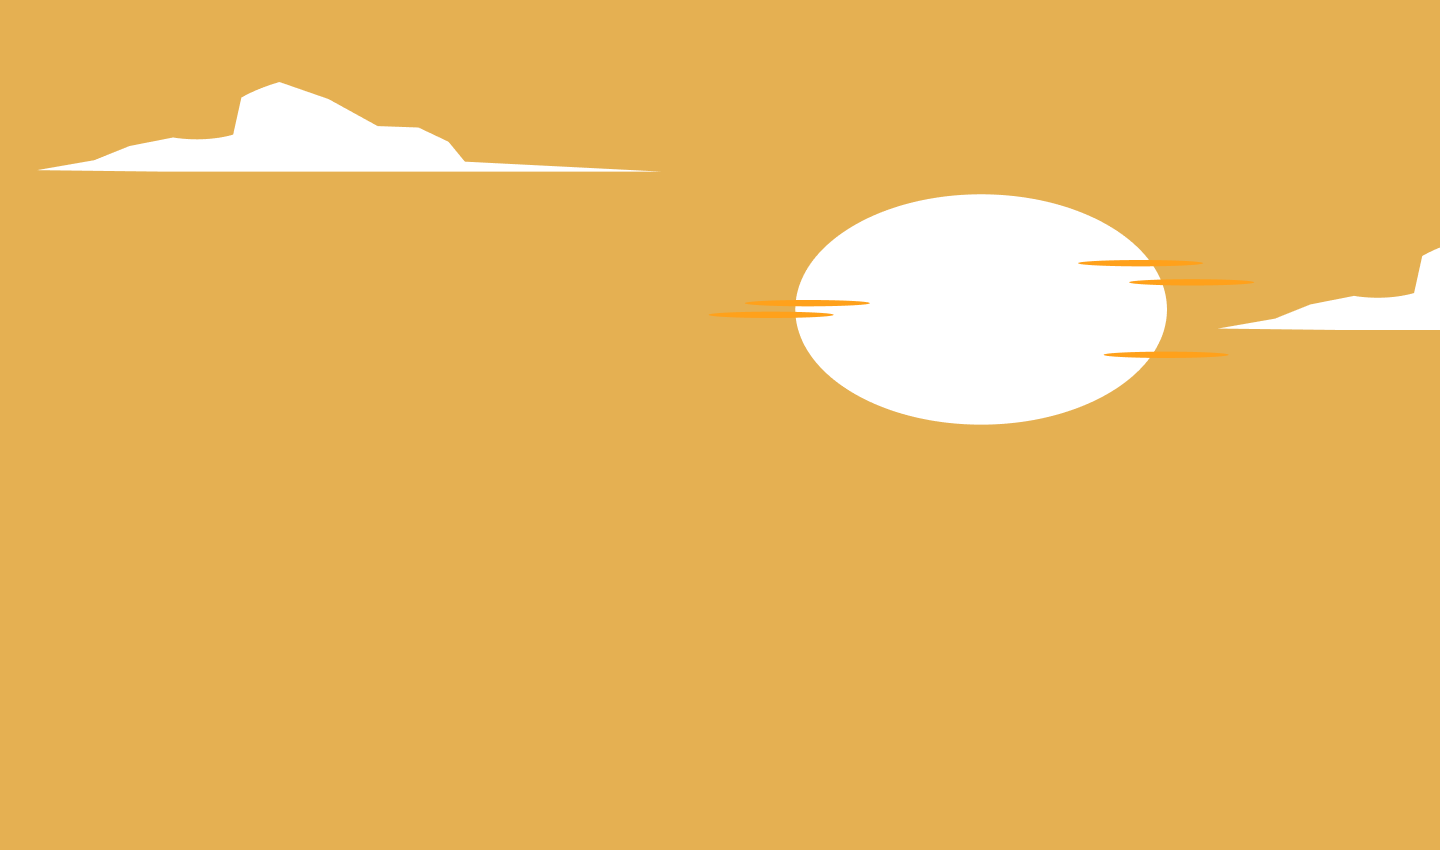
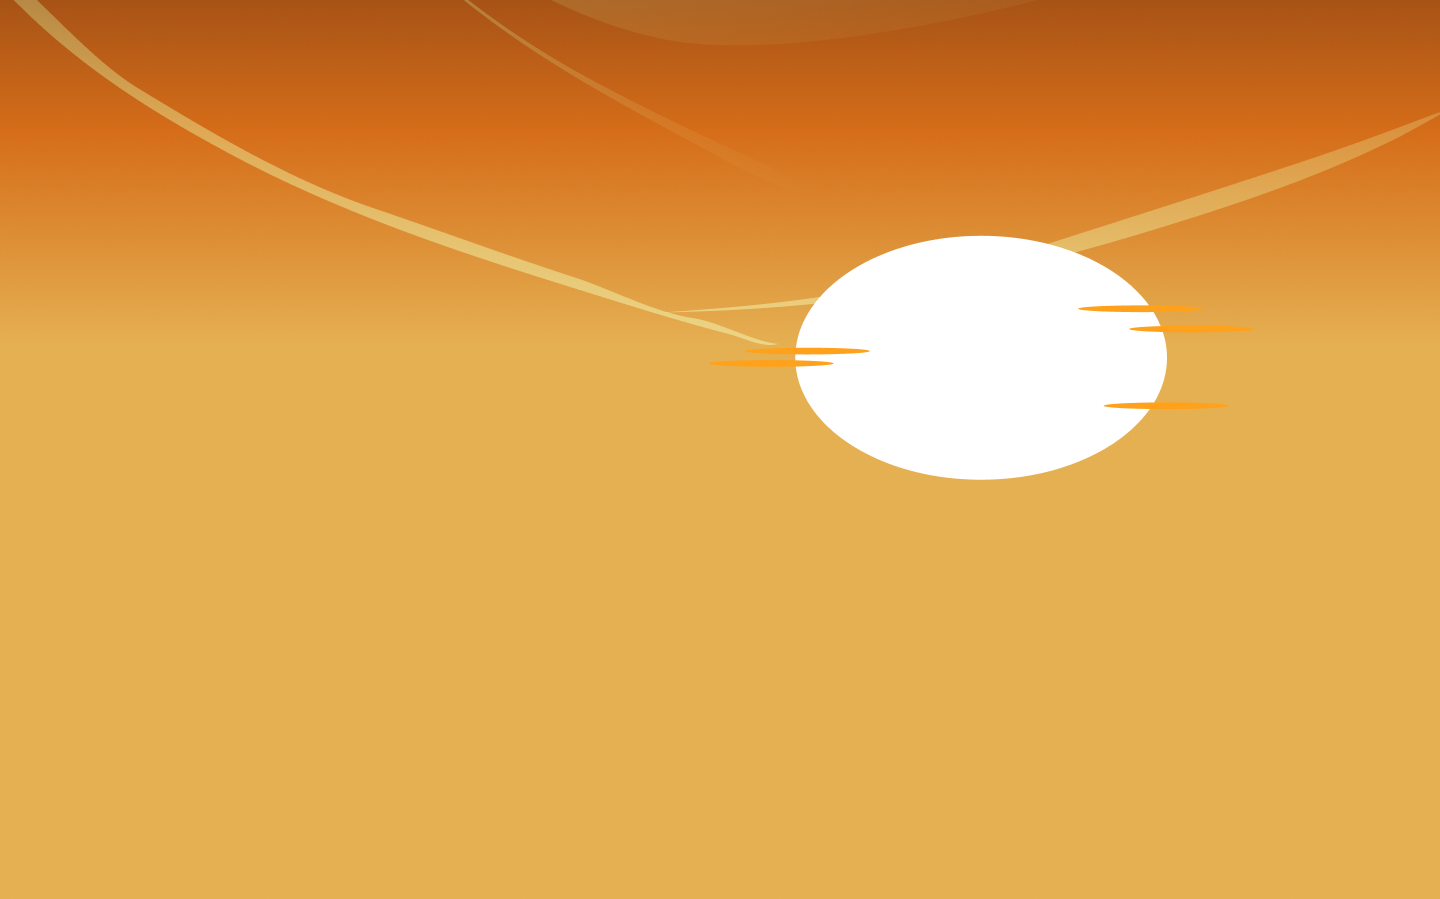
WWO Hover, Rentals responsiveness, new hero and footer bg

diff --git a/components/index/Footer/Footer.jsx b/components/index/Footer/Footer.jsx
@@ -3,19 +3,20 @@ import { BsFillArrowRightCircleFill } from "react-icons/bs";
 
 export function FooterLandingPage() {
   return (
-    <div className="pb-16" style={{ backgroundColor: "#E5B052" }}>
-      <div
-        className="w-full min-h-[25vh] md:min-h-[50vh] lg:min-h-[70vh]"
-        style={{
-          backgroundImage: `url('/assets/bottom bg.png')`,
-          backgroundSize: "cover",
-        }}
-      />
+    <div
+      className="w-full h-[140vh] md:h-[145vh]"
+      style={{
+        backgroundImage: `url('/assets/bottom bg.png')`,
+        backgroundSize: "cover",
+      }}
+    >
+      {/* FILLER DIV */}
+      <div className="h-[65vh] md:h-[75vh]"></div>
       <div className="flex flex-row items-center justify-center mx-10 md:mx-20 flex-wrap">
-        <h1 className="basis-full text-center text-2xl sm:text-3xl md:text-5xl text-color-secondary font-extrabold drop-shadow-lg">
+        <h1 className="basis-full text-center text-2xl md:text-3xl lg:text-5xl text-color-secondary font-extrabold drop-shadow-lg">
           CONNECT WITH US
         </h1>
-        <p className=" text-white text-sm sm:text-md md:text-xl text-center pt-5 lg:w-1/2">
+        <p className=" text-white text-sm sm:text-base lg:text-xl text-center pt-5 lg:w-1/2">
           Join the revolution to make the gaming NFT lending and borrowing
           markets open for all. Subscribe to our waitlist to have early access
           to our cross chain borrowing and lending protocol.
@@ -65,7 +66,7 @@ export function FooterLandingPage() {
           </button>
         </div>
       </div>
-      <footer className="bg-transparent pt-16 px-0 sm:px-20">
+      <footer className="bg-transparent pt-10 lg:pt-16 px-0 sm:px-20">
         <div className="flex flex-wrap justify-center md:justify-between px-5">
           <a
             href="#/"
@@ -80,11 +81,11 @@ export function FooterLandingPage() {
               Kingdomly
             </span>
           </a>
-          <ul className="flex flex-wrap items-center text-lg text-white">
+          <ul className="flex flex-wrap items-center text-white">
             <li>
               <a
                 href="#"
-                className="mr-3 text-sm md:text-lg hover:underline md:mr-6"
+                className="mr-3 text-sm sm:text-base lg:text-lg hover:underline md:mr-6"
               >
                 About
               </a>
@@ -92,20 +93,20 @@ export function FooterLandingPage() {
             <li>
               <a
                 href="#"
-                className="mr-3 text-sm md:text-lg hover:underline md:mr-6 "
+                className="mr-3 text-sm sm:text-base lg:text-lg hover:underline md:mr-6 "
               >
                 Terms of Service
               </a>
             </li>
             <li>
-              <a href="#" className="text-sm md:text-lg hover:underline">
+              <a href="#" className="text-sm sm:text-base lg:text-lg hover:underline">
                 Privacy Policy
               </a>
             </li>
           </ul>
         </div>
         <hr className=" border-white my-4 md:my-8 mx-4 sm:mx-0" />
-        <span className="block  text-white  text-center text-sm md:text-lg ">
+        <span className="block  text-white  text-center text-sm sm:text-base lg:text-lg ">
           © 2022{" "}
           <a href="#/" className="hover:underline ">
             Kingdomly

diff --git a/pages/index.js b/pages/index.js
@@ -33,7 +33,7 @@ export default function Home() {
 
       {/* <--LENDERS--> */}
       <div
-        className="vertical p-10 md:p-20"
+        className="vertical pt-[10vh] md:pt-[10vh] px-10 md:px-20"
         style={{ backgroundColor: "#122620" }}
       >
         <div className="flex justify-center">
@@ -41,16 +41,46 @@ export default function Home() {
             WHAT WE OFFER
           </strong>
         </div>
-        <div className="flex flex-wrap justify-center py-10">
-          <LenderGridItems index={1} content={"NFT Rentals made easy!"} />
-          <LenderGridItems index={2} content={"Complete Access"} />
-          <LenderGridItems index={3} content={"Enlist any NFT!"} />
-          <LenderGridItems index={4} content={"Open for All"} />
-          <LenderGridItems index={5} content={"No More Whitegloving!"} />
+        <div className="flex flex-wrap justify-center items-start pt-10 pb-20">
+          <LenderGridItems
+            index={1}
+            content={"Low risk, high reward"}
+            extended={
+              "With Kingdomly any player can try any game at a fraction of the cost, learning and growing in their enjoyment of such games before they decide to make a full purchase themselves."
+            }
+          />
+          <LenderGridItems
+            index={2}
+            content={"No more NFT cold starts!"}
+            extended={
+              "Most NFT launches encounter cold-starts caused by extremely low or high minting prices. Lending and renting protocols could abolish these factors."
+            }
+          />
+          <LenderGridItems
+            index={3}
+            content={"Enlist any NFT!"}
+            extended={
+              "The initial and core Kingdomly product is a protocol layer that enables peer to peer renting of ERC-721 and ERC-1155 non-fungible tokens (NFTs)."
+            }
+          />
+          <LenderGridItems
+            index={4}
+            content={"Your NFT, your rules."}
+            extended={
+              'Lending implies transferring true “usership” rights to the borrower, The NFT "Lender" is the one to set the rules on how long can someone have it for rent, and how much will it cost.: '
+            }
+          />
+          <LenderGridItems
+            index={5}
+            content={"Open for all!"}
+            extended={
+              "Anyone with NFTs, may it be 721 or 4907s, can hop in and have their assets for lease! On Kingdomly’s platform, any user can lend as many gaming/utility assets as they would like."
+            }
+          />
         </div>
       </div>
 
-      {/* <--RENTERS--> */}
+      {/* <--RENTALS--> */}
       <Renters />
 
       {/* <--Milestones--> */}

diff --git a/components/index/ParallaxHero.jsx b/components/index/ParallaxHero.jsx
@@ -8,29 +8,49 @@ export default function () {
     <>
       <ParallaxContainer scrollAxis="vertical">
         <ParallaxBanner className="vertical">
-          <ParallaxBannerLayer image="/assets/kf-50.png" speed={-22} />
-          <ParallaxBannerLayer image="/assets/kf-60.png" speed={-12} />
-          <ParallaxBannerLayer image="/assets/kf-80.png" speed={-6} />
-          <ParallaxBannerLayer image="/assets/kf-10.png" speed={-2} />
-          <ParallaxBannerLayer image="/assets/kf-100.png" speed={5} />
+          <ParallaxBannerLayer
+            className="bg-no-repeat bg-center bg-contain"
+            image="/assets/kf-50.png"
+            speed={-22}
+          />
+          <ParallaxBannerLayer
+            className="bg-no-repeat bg-center bg-contain"
+            image="/assets/kf-60.png"
+            speed={-12}
+          />
+          <ParallaxBannerLayer
+            className="bg-no-repeat bg-center bg-contain"
+            image="/assets/kf-80.png"
+            speed={-6}
+          />
+          <ParallaxBannerLayer
+            className="bg-no-repeat bg-center bg-contain"
+            image="/assets/kf-10.png"
+            speed={-2}
+          />
+          <ParallaxBannerLayer
+            className="bg-no-repeat bg-center bg-contain"
+            image="/assets/kf-100.png"
+            speed={5}
+          />
           <div className="flex flex-row flex-wrap translate-y-10 items-center justify-center mx-10 md:mx-20 md:w-1/2 lg:w-1/2  ">
             <h1 className="text-3xl md:text-5xl lg:text-7xl text-color-secondary font-bold drop-shadow-lg">
               Adventure into metaverse reality.
             </h1>
             <p className="text-white text-medium md:text-lg pt-5">
-              A decentralized exchange that allows the lenders to post and farm
-              yield on their available gaming NFT’s in one location, with
-              specific expectations set.
+              An exchange that allows the lenders to post and farm yield on
+              their available gaming NFT’s in one location, with specific
+              expectations set.
             </p>
             <div className="flex-col basis-full pt-5">
               <button
                 type="button"
-                class="text-white bg-amber-300 hover:bg-emerald-900 font-medium rounded-lg shadow-lg text-sm md:text-lg  px-5 py-2.5 mr-2 mb-2  "
+                class="text-white bg-amber-600 hover:bg-emerald-900 font-medium rounded-lg shadow-lg text-sm md:text-lg  px-5 py-2.5 mr-2 mb-2  "
               >
                 Launch App
               </button>
             </div>
-          </div> 
+          </div>
         </ParallaxBanner>
       </ParallaxContainer>
     </>

diff --git a/components/index/Renters.jsx b/components/index/Renters.jsx
@@ -2,7 +2,7 @@ import RentalItem from "./Rentals/RentalItem";
 export default function Renters() {
   return (
     <div
-      className="vertical p-10 md:p-20"
+      className="vertical pt-[10vh] pb-[5vh] lg:pb-[20vh] px-10 md:px-15 lg:px-20"
       style={{ backgroundColor: "#0B1814" }}
     >
       <div className="flex justify-center">
@@ -10,7 +10,7 @@ export default function Renters() {
           RENTALS
         </strong>
       </div>
-      <div className="flex flex-wrap justify-center py-10">
+      <div className="flex flex-wrap justify-center">
         <RentalItem
           title={"Your all in one rental feature. But in the other way around."}
           content={[
@@ -20,17 +20,17 @@ export default function Renters() {
         />
         <RentalItem
           reverse={true}
-          title={"Your all in one rental feature. But in the other way around."}
+          title={"Automatically get a hold of your rights."}
           content={[
-            "The “Borrower” must specify the duration (in days) that they would like to borrow the NFT for",
-            "This duration then gets multiplied by the lender's set rental price to arrive at the total rent price",
+            "This total rent price gets deducted from the borrower’s balance and sent to the Kingdomly contract which then transfers “usership” rights linked to the rented NFT from  “Lender” to “Borrower”",
+            "At the end of the borrowing period the the “usership” status is transferred from the “Borrower” wallet back to the “Lender” wallet",
           ]}
         />
         <RentalItem
-          title={"Your all in one rental feature. But in the other way around."}
+          title={"Smart-regulation of rental assets."}
           content={[
-            "The “Borrower” must specify the duration (in days) that they would like to borrow the NFT for",
-            "This duration then gets multiplied by the lender's set rental price to arrive at the total rent price",
+            "Once this is confirmed, the rent price is transferred from Kingdomly to the “Lender”",
+            "In the case that the NFT is transferred out of the “Lender” wallet, “usership” status is immediately revoked from “Borrower” wallet and transferred to the new owner wallet address",
           ]}
         />
       </div>

diff --git a/components/index/Rentals/RentalItem.jsx b/components/index/Rentals/RentalItem.jsx
@@ -1,32 +1,38 @@
 import { SiAbstract } from "react-icons/si";
 
 export default function RentalItem({ reverse, content, title, image, icons }) {
-  var classOrder = "flex justify-center";
+  var classOrder = "flex justify-center order-first md:order-none h-fit";
   if (reverse) {
-    classOrder = "flex justify-center order-first";
+    classOrder = "flex justify-center order-first h-fit";
   }
   return (
     <div
-      className="grid grid-cols-2 vertical "
+      className="grid grid-cols-1 md:grid-cols-2 place-content-center h-[92vh] md:h-[82vh] lg:h-[85vh]"
       style={{ backgroundColor: "#0B1814" }}
     >
       <div className="grid grid-cols-2 grid-flow-row place-content-center">
-        <div className="col-span-2 mb-3">
-          <strong className="text-white text-3xl text-center">{title}</strong>
+        <div className="col-span-2 text-center md:text-start mb-5 md:mb-10">
+          <strong className="text-white text-sm md:text-3xl text-color-main ">
+            {title}
+          </strong>
         </div>
-        <div className="col-span-1 block mr-1">
-          <SiAbstract size={25} className="mb-2" color="white" />
-          <p className="text-white text-md font-normal">{content[0]}</p>
+        <div className="col-span-2 md:col-span-1 block mx-1 mb-5 md:mb-0">
+          <SiAbstract size={25} className="mb-5" color="white" />
+          <p className="text-white text-xs md:text-base text- lg:text-lg font-normal">
+            {content[0]}
+          </p>
         </div>
-        <div className="col-span-1 block mr-1">
-          <SiAbstract size={25} className="mb-2" color="white" />
-          <p className="text-white text-md font-normal">{content[1]}</p>
+        <div className="col-span-2 md:col-span-1 block mx-1 mb-5 md:mb-0">
+          <SiAbstract size={25} className="mb-5" color="white" />
+          <p className="text-white text-xs md:text-base lg:text-lg font-normal">
+            {content[1]}
+          </p>
         </div>
       </div>
       <div className={classOrder}>
         <img
           src="/assets/cards.png"
-          className="object-contain img-float"
+          className="object-contain img-float h-[40vh] md:h-[65vh] self-center"
           alt="Card"
         />
       </div>

diff --git a/components/index/LenderGridItems.jsx b/components/index/LenderGridItems.jsx
@@ -1,14 +1,44 @@
-//Grid Items for "WHAT WE OFFER" Part 
-export default function ({ index, content }) {
+import { useState } from "react";
+
+//Grid Items for "WHAT WE OFFER" Part
+export default function ({ index, content, extended }) {
+  const [isExtended, setExtended] = useState(false);
+
   return (
-    <div
-      className="block text-center m-3 px-6 py-9 w-11/12 h-48 md:w-48 md:h-48 rounded-lg shadow-md"
-      style={{ backgroundColor: "#0B1814" }}
-    >
-      <h5 className="mb-5 text-5xl font-bold text-color-main">{index}</h5>
-      <p className="text-xl font-semibold tracking-tight text-color-main">
-        {content}
-      </p>
-    </div>
+    <>
+      <div
+        onMouseEnter={() => setExtended(true)}
+        onMouseLeave={() => setExtended(false)}
+        className={
+          isExtended
+            ? "block text-start m-3 px-6 py-9 w-11/12 h-fit md:w-52 xl:h-[64vh] rounded-lg shadow-md"
+            : "block text-center m-3 px-6 py-9 w-11/12 h-52 md:w-52 md:h-52 rounded-lg shadow-md"
+        }
+        style={{ backgroundColor: isExtended ? "white" : "#0B1814" }}
+      >
+        <h5
+          className={
+            isExtended
+              ? "mb-5 text-5xl font-bold text-color-secondary text-center"
+              : "mb-5 text-5xl font-bold text-color-main text-center"
+          }
+        >
+          {index}
+        </h5>
+        <p
+          className={
+            isExtended
+              ? "text-xl font-semibold tracking-tight text-color-secondary text-center"
+              : "text-xl font-semibold tracking-tight text-color-main text-center"
+          }
+        >
+          {content}
+        </p>
+        <div className={isExtended ? "" : "hidden"}>
+          <hr className="my-5 bg-black h-1" />
+          <p className="text-md font-normal text-black ">{extended}</p>
+        </div>
+      </div>
+    </>
   );
 }
